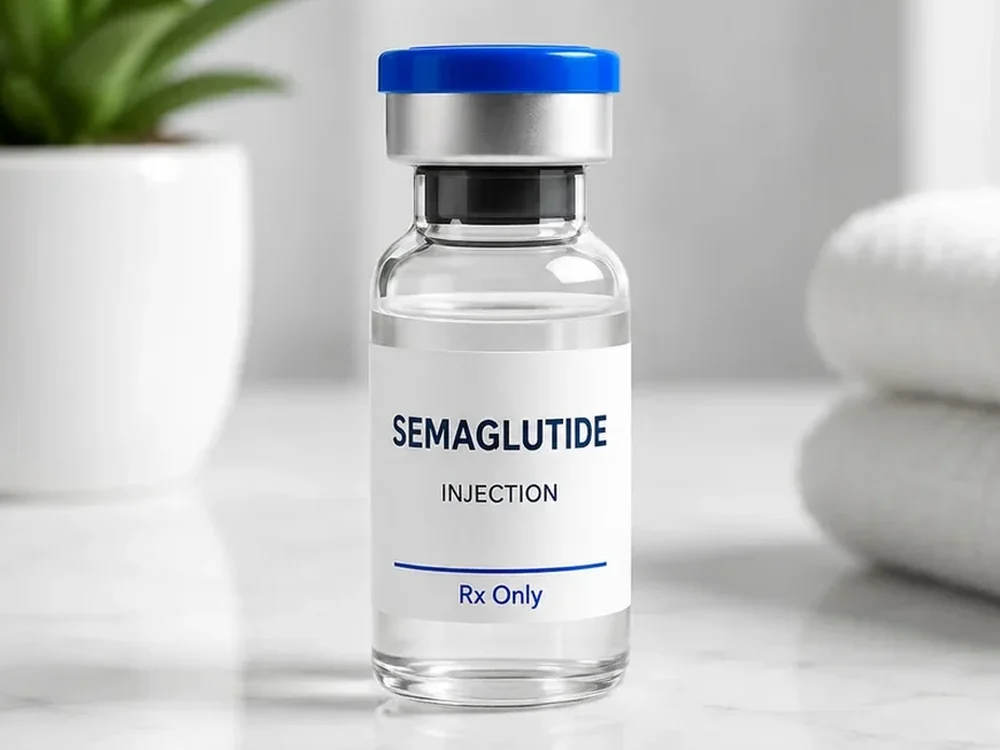
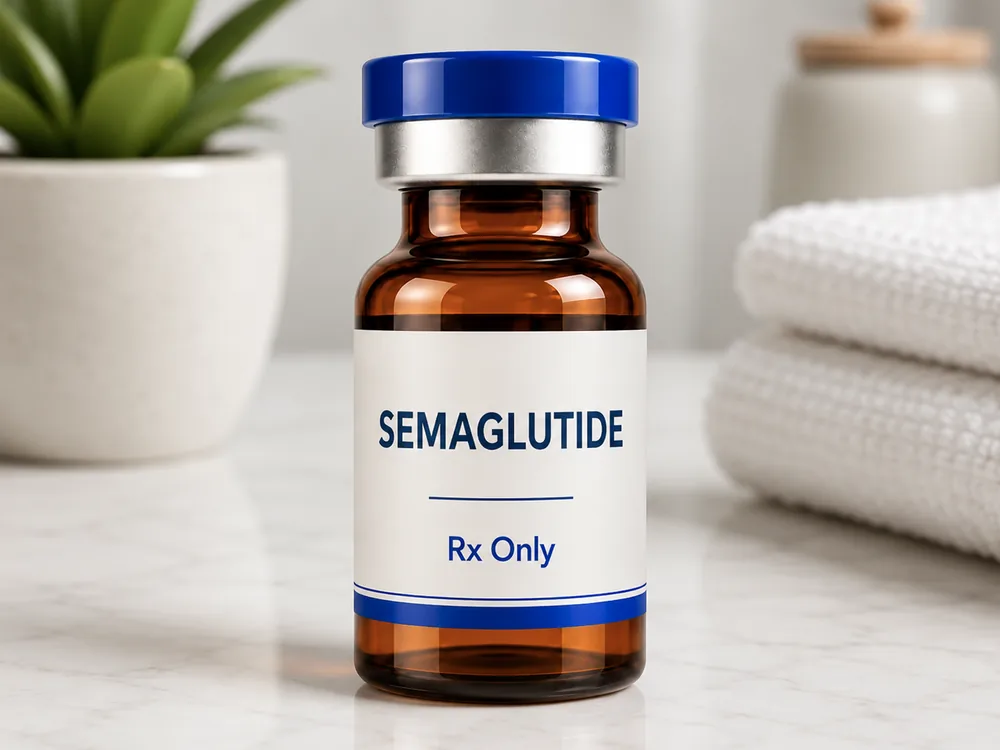
feat(site): new product photos, injectables-first grid, CA note
- New amber semaglutide vial; Tadalafil Daily, Tadalafil As Needed and
  Sildenafil As Needed each get their own bottle photo (previously two
  cards shared one), trimmed from the client's framed originals to 4:3.
- Weight Loss grid is grouped by form: weekly injections on top, oral
  tablets below (client revision).
- Lab FAQ becomes "Are lab tests available if I need them?" with the
  client's wording plus low-cost labs, billed separately.
- Oral semaglutide and oral tirzepatide are not available to California
  residents: shown on both oral cards (new optional `availability` line
  on StandardProductCard), the Oral Tablets row, the Learning Center
  weight insert and a new FAQ.
- Card prices in these files move to the GEN Health prices (see the
  activation commit).

diff --git a/wellpeps-site/src/data/weight.ts b/wellpeps-site/src/data/weight.ts
@@ -7,8 +7,8 @@
  * and the approved Weight Management page mockups.
  *
  * NOTE (client): each price is the one monthly all-in price (PRICE_NOTE under
- * the grid). The $109 / $269 / $119 figures are placeholders from the old
- * pricing model until prices are pulled from GEN Health.
+ * the grid). Prices are the GEN Health product prices read from the API on
+ * 2026-09-30 and must stay in step with GEN until the build pulls them.
  */
 
 
@@ -91,6 +91,8 @@ export interface PillProduct {
   name: string;
   /** Which row of the treatments grid the card sits in (weightProductGroups). */
   medication: 'semaglutide' | 'tirzepatide';
+  /** Which row of the grid the card sits in (see weightProductGroups). */
+  form: 'injection' | 'oral';
   image: string;
   alt: string;
   benefits: PillBenefit[];
@@ -100,6 +102,8 @@ export interface PillProduct {
   price?: string;
   priceUnit: string;
   priceNote?: string;
+  /** State restriction shown on the card (see StandardProductCard). */
+  availability?: string;
 }
 
 export const weightProductsIntro = {
@@ -108,12 +112,18 @@ export const weightProductsIntro = {
   footnote: 'Prescription required. Treatment recommendations depend on your assessment and provider evaluation.',
 };
 
+/** Oral semaglutide and oral tirzepatide are not offered in California
+ *  (client, 2026-09-30). Shown on both oral cards, the Oral Tablets row note,
+ *  the Learning Center treatment insert, the FAQ and the chat assistant. */
+export const ORAL_GLP1_AVAILABILITY = 'Not available to California residents.';
+
 export const weightProducts: PillProduct[] = [
   {
     name: 'Compounded Semaglutide',
+    form: 'injection',
     medication: 'semaglutide',
     image: '/images/weight/product-semaglutide.webp',
-    alt: 'Compounded semaglutide injection vial',
+    alt: 'An amber compounded semaglutide injection vial on a bathroom counter',
     benefits: [
       { label: 'Weight Loss', icon: 'trending-down' },
       { label: 'Appetite Control', icon: 'utensils' },
@@ -122,11 +132,12 @@ export const weightProducts: PillProduct[] = [
     ],
     description: 'Weekly GLP-1 treatment to help support appetite regulation and healthy weight loss.',
     delivery: { label: 'Weekly Injection', icon: 'syringe' },
-    price: '109',
+    price: '179',
     priceUnit: '/month',
   },
   {
     name: 'Compounded Tirzepatide',
+    form: 'injection',
     medication: 'tirzepatide',
     image: '/images/weight/product-tirzepatide.webp',
     alt: 'Compounded tirzepatide injection vial',
@@ -138,11 +149,13 @@ export const weightProducts: PillProduct[] = [
     ],
     description: 'Dual GIP/GLP-1 treatment designed to support appetite regulation and metabolic health.',
     delivery: { label: 'Weekly Injection', icon: 'syringe' },
-    price: '269',
+    price: '249',
     priceUnit: '/month',
   },
   {
     name: 'Oral Semaglutide',
+    availability: ORAL_GLP1_AVAILABILITY,
+    form: 'oral',
     medication: 'semaglutide',
     image: '/images/weight/product-oral.webp',
     alt: 'Oral semaglutide tablets',
@@ -154,11 +167,13 @@ export const weightProducts: PillProduct[] = [
     ],
     description: 'Daily oral GLP-1 option—a convenient, needle-free alternative.',
     delivery: { label: 'Daily Tablet', icon: 'pill' },
-    price: '119',
+    price: '229',
     priceUnit: '/month',
   },
   {
     name: 'Oral Tirzepatide',
+    availability: ORAL_GLP1_AVAILABILITY,
+    form: 'oral',
     medication: 'tirzepatide',
     image: '/images/weight/product-oral-tirzepatide.webp',
     alt: 'Oral tirzepatide tablets',
@@ -174,11 +189,11 @@ export const weightProducts: PillProduct[] = [
   },
 ];
 
-/** The treatments grid is grouped by medication, one row each: the patient's
- *  first question is which medication, then injection or oral. */
-export const weightProductGroups: { medication: PillProduct['medication']; title: string; note: string }[] = [
-  { medication: 'semaglutide', title: 'Semaglutide', note: 'A GLP-1 medication, available as a weekly injection or a daily tablet.' },
-  { medication: 'tirzepatide', title: 'Tirzepatide', note: 'A dual GIP/GLP-1 medication, available as a weekly injection or an oral tablet.' },
+/** The treatments grid has two rows: weekly injections on top, tablets below
+ *  (client revision, 2026-09-30). */
+export const weightProductGroups: { form: PillProduct['form']; title: string; note: string }[] = [
+  { form: 'injection', title: 'Weekly Injections', note: 'Semaglutide or tirzepatide, taken as one injection a week.' },
+  { form: 'oral', title: 'Oral Tablets', note: 'A needle-free option: semaglutide or tirzepatide as a tablet. Oral options are not available to California residents.' },
 ];
 
 export interface WeightFaq {
@@ -189,6 +204,10 @@ export interface WeightFaq {
 export const weightFaqs: WeightFaq[] = [
   ...planProgramFaqs,
   {
+    q: 'Are oral GLP-1 options available in every state?',
+    a: 'No. Oral semaglutide and oral tirzepatide are not available to California residents. Injectable options may be available; your provider will review which treatments are appropriate and available where you live.',
+  },
+  {
     q: 'Can I qualify for a GLP-1 weight loss program?',
     a: 'Eligibility depends on your health history, BMI, and other factors. A licensed healthcare provider will review your information and determine whether treatment is appropriate.',
   },
@@ -197,8 +216,8 @@ export const weightFaqs: WeightFaq[] = [
     a: 'Your provider will recommend a personalized treatment plan based on your health goals, medical history, and clinical evaluation.',
   },
   {
-    q: 'Are lab tests required?',
-    a: 'Some treatment programs may require laboratory testing before or during treatment. If needed, your provider will discuss the appropriate testing with you. WellPeps offers access to low-cost labs; lab fees are billed separately.',
+    q: 'Are lab tests available if I need them?',
+    a: 'Lab testing is available when appropriate for your care. If your provider determines that testing is needed before or during treatment, they’ll discuss the recommended tests with you and help guide you through the process. WellPeps offers access to low-cost labs; lab fees are billed separately.',
   },
   {
     q: 'How long does it take to receive my medication?',

diff --git a/wellpeps-site/src/data/sexual.ts b/wellpeps-site/src/data/sexual.ts
@@ -74,32 +74,34 @@ export const sexProducts: SexProduct[] = [
   {
     name: 'Tadalafil Daily',
     subtitle: 'Low-Dose Daily Tablet',
-    image: '/images/sexual/product-tadalafil.webp',
-    alt: 'A white prescription bottle labeled Oral Tadalafil on a bedside table',
+    image: '/images/sexual/product-tadalafil-daily.webp',
+    alt: 'An amber prescription bottle labeled Tadalafil Daily beside a glass of water on a bedside table',
     description: 'Low-dose daily support to help you feel ready, confident, and in control every day.',
     features: ['Supports daily confidence', 'Designed for ongoing spontaneity', 'Easy daily routine'],
     methodOfUse: 'Oral Tablet',
-    price: '69',
+    price: '79',
     priceUnit: '/month',
   },
   {
     name: 'Tadalafil As Needed',
     subtitle: 'High-Dose Tablet',
-    image: '/images/sexual/product-tadalafil.webp',
-    alt: 'A white prescription bottle labeled Oral Tadalafil on a bedside table',
+    image: '/images/sexual/product-tadalafil-as-needed.webp',
+    alt: 'An amber prescription bottle labeled Tadalafil As Needed beside a glass of water on a bedside table',
     description: 'A higher-dose tablet taken before activity rather than every day. Your provider determines whether it is appropriate for you.',
     features: ['Taken only when needed', 'No daily routine required', 'Provider-guided dosing'],
     methodOfUse: 'Oral Tablet',
+    price: '45',
     priceUnit: '/month',
   },
   {
     name: 'Sildenafil As Needed',
     subtitle: 'As-Needed Tablet',
     image: '/images/sexual/product-sildenafil.webp',
-    alt: 'A white prescription bottle labeled Oral Sildenafil on a bedside table',
+    alt: 'An amber prescription bottle labeled Sildenafil As Needed beside a glass of water on a bedside table',
     description: 'A well-established tablet taken before activity. Your provider determines whether it is appropriate for you.',
     features: ['Taken only when needed', 'Well-established treatment', 'Provider-guided dosing'],
     methodOfUse: 'Oral Tablet',
+    price: '39',
     priceUnit: '/month',
   },
 ];
